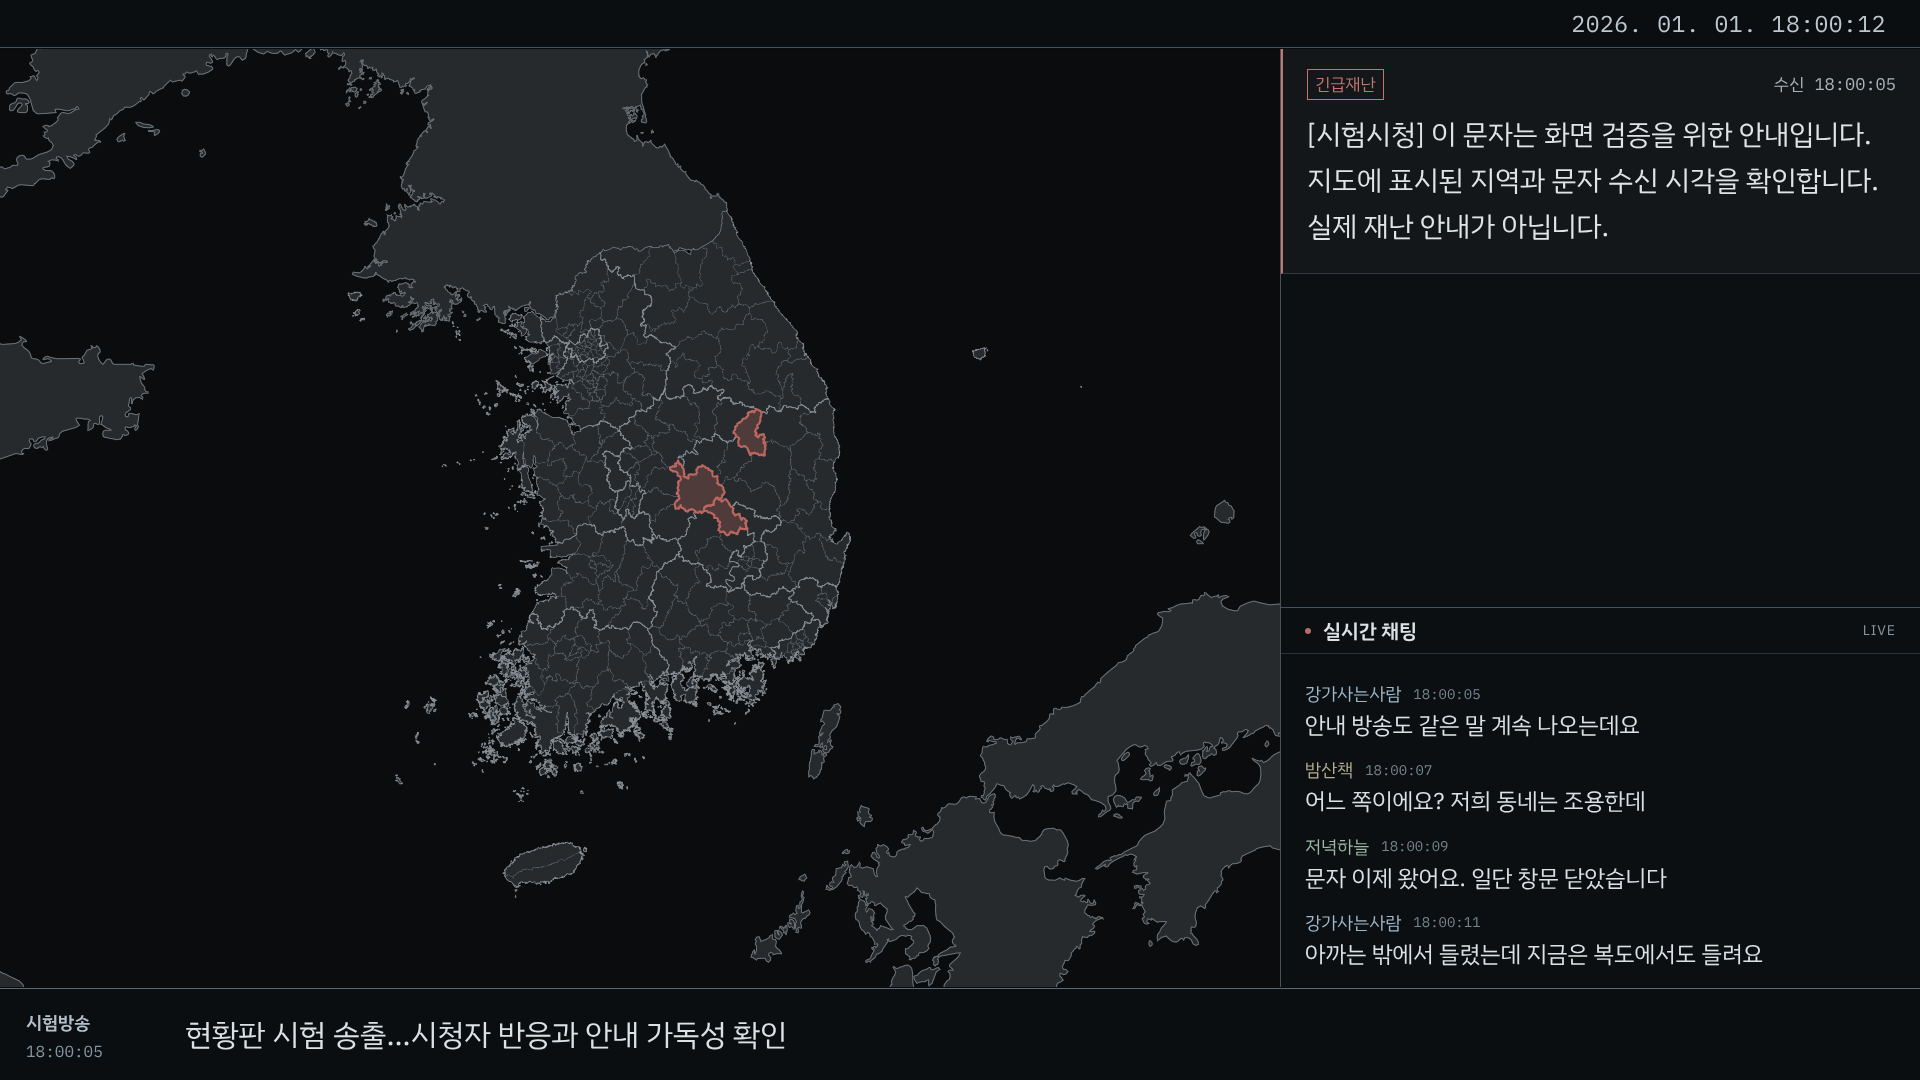
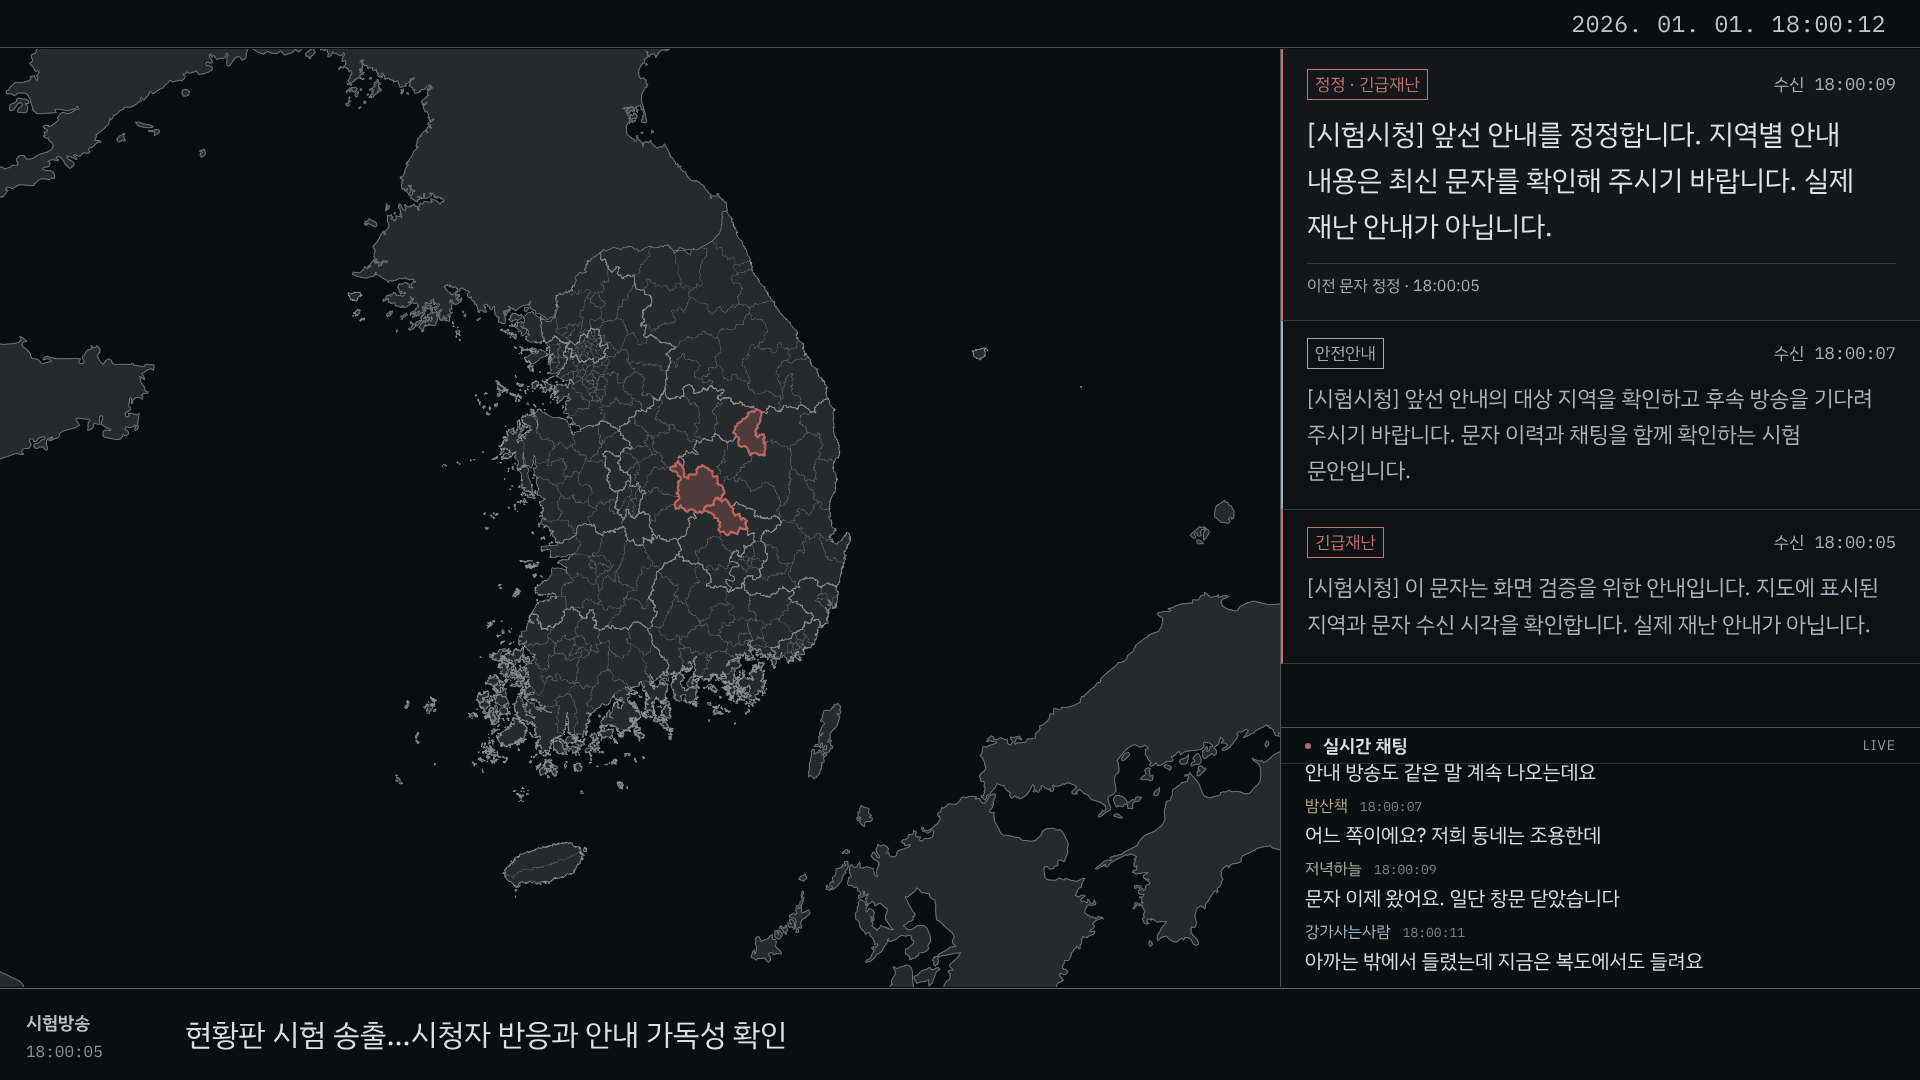
fix: reserve more panel space for disaster alerts

diff --git a/src/video/Chat.tsx b/src/video/Chat.tsx
@@ -4,7 +4,7 @@ import { clock, stateAt } from '../timeline.js';
 import { numberFont } from './fonts.js';
 import { changeProgress } from './transitions.js';
 
-export const chatHeight = 380;
+export const chatHeight = 260;
 
 export function ChatPanel({
   timeline,
@@ -21,6 +21,7 @@ export function ChatPanel({
       aria-label={chat.panel.title}
       style={{
         height: chatHeight,
+        boxSizing: 'border-box',
         flexShrink: 0,
         display: 'flex',
         flexDirection: 'column',
@@ -32,7 +33,7 @@ export function ChatPanel({
     >
       <div
         style={{
-          height: 46,
+          height: 36,
           flexShrink: 0,
           display: 'flex',
           alignItems: 'center',
@@ -42,7 +43,7 @@ export function ChatPanel({
         }}
       >
         <span style={{ width: 6, height: 6, borderRadius: '50%', background: '#b46e68' }} />
-        <span style={{ fontSize: chat.panel.title.length > 20 ? 16 : 20, fontWeight: 600 }}>
+        <span style={{ fontSize: chat.panel.title.length > 20 ? 16 : 18, fontWeight: 600 }}>
           {chat.panel.title}
         </span>
         <span style={{ marginLeft: 'auto', fontSize: 14, color: '#89969e', letterSpacing: 1 }}>
@@ -51,11 +52,11 @@ export function ChatPanel({
       </div>
       <div style={{ position: 'relative', flex: 1, minHeight: 0, overflow: 'hidden' }}>
         {chat.messages.length === 0 && (
-          <div style={{ padding: '24px', color: '#89969e', fontSize: 20 }}>
+          <div style={{ padding: '16px 24px', color: '#89969e', fontSize: 18 }}>
             아직 채팅이 없습니다.
           </div>
         )}
-        <div style={{ position: 'absolute', bottom: 16, left: 24, right: 24 }}>
+        <div style={{ position: 'absolute', bottom: 12, left: 24, right: 24 }}>
           {/* Only the recent tail can fit; absolute bottom alignment scrolls without DOM state. */}
           {chat.messages.slice(-12).map((message) => {
             const arrival = changeProgress(frame, message.start, 18);
@@ -64,20 +65,20 @@ export function ChatPanel({
                 <div style={{ minHeight: 0, overflow: 'hidden' }}>
                   <article
                     style={{
-                      paddingTop: 14,
+                      paddingTop: 8,
                       opacity: arrival,
                       transform: `translateY(${8 * (1 - arrival)}px)`,
                     }}
                   >
                     <div style={{ display: 'flex', alignItems: 'center', gap: 12, marginBottom: 3 }}>
-                      <span style={{ fontSize: 18, color: message.color, overflowWrap: 'anywhere' }}>
+                      <span style={{ fontSize: 16, color: message.color, overflowWrap: 'anywhere' }}>
                         {message.author}
                       </span>
-                      <time style={{ fontSize: 14, color: '#78868f', fontFamily: numberFont }}>
+                      <time style={{ fontSize: 13, color: '#78868f', fontFamily: numberFont }}>
                         {clock(stateAt(timeline, message.start).epoch, timeline.scenario.timezone)}
                       </time>
                     </div>
-                    <div style={{ fontSize: 23, lineHeight: 1.4, overflowWrap: 'anywhere' }}>
+                    <div style={{ fontSize: 20, lineHeight: 1.4, overflowWrap: 'anywhere' }}>
                       {message.text}
                     </div>
                   </article>

diff --git a/docs/history/2026-11-15-streaming-chat.md b/docs/history/2026-11-15-streaming-chat.md
@@ -2,7 +2,7 @@
 
 ## 요청과 판단
 
-현황판을 유튜브 같은 플랫폼에서 스트리밍 중이라는 설정에 맞춰 사람들의 반응을 보여주는 채팅을 추가했다. 지도 위에 대화를 겹치면 지역과 안내를 읽기 어려워 오른쪽 문자 패널 아래에 별도 공간을 배정했다. 기존 작품에 강제하지 않고 선택한 구간에만 켠다. 플랫폼 로고나 실제 서비스 연결은 필요하지 않으므로 작성된 대화를 결정적으로 재생한다.
+현황판을 유튜브 같은 플랫폼에서 스트리밍 중이라는 설정에 맞춰 사람들의 반응을 보여주는 채팅을 추가했다. 지도 위에 대화를 겹치면 지역과 안내를 읽기 어려워 오른쪽 문자 패널 아래 260px을 배정하고 약 72% 높이는 문자 이력에 남긴다. 작은 채팅 제목·본문과 좁은 메시지 간격으로 문자보다 낮은 정보 위계를 유지한다. 기존 작품에 강제하지 않고 선택한 구간에만 켠다. 플랫폼 로고나 실제 서비스 연결은 필요하지 않으므로 작성된 대화를 결정적으로 재생한다.
 
 ## 구현
 
@@ -18,7 +18,7 @@ F7 → TECH의 스트리밍 채팅 → PLAN의 P8로 추적한다. 정확한 필
 - `npm test`: 57개 통과. 채팅의 선택성·패널 구간·동시 메시지 순서·컷 이월·시계 전환 정지·역방향 탐색·전체 대화 보존·참조/구간 오류·중첩 거부·입력 길이와 HTML 이스케이프를 포함한다.
 - `npm run typecheck`, `npm run build`, `git diff --check` 통과.
 - `scripts/render-fixtures.mjs /tmp/dbs-chat-fixtures`로 실제 작품이 아닌 기술 검증 입력을 저장소 밖에 생성했다. 기존 검증 입력은 유지하고 `chat.json`을 추가했다.
-- Linux/Chrome Headless Shell/`swangle`에서 720번 프레임을 PNG로 출력해 지도·문자·채팅·뉴스를 함께 확인했다. [확인 화면](../screenshots/chat.png)을 보존했다. 960번 프레임에서는 최대 160자 본문 전체가 최신 항목으로 읽히는 것을 확인했다.
+- Linux/Chrome Headless Shell/`swangle`에서 720번 프레임을 PNG로 출력해 지도·문자·채팅·뉴스를 함께 확인했다. [확인 화면](../screenshots/chat.png)은 260px 채팅과 문자 3건이 함께 보이는 배치다. 960번 프레임에서는 최대 160자 본문 전체가 최신 항목으로 읽히는 것을 확인했다. 배치 조정 후 채팅·문자 이력 테스트와 빌드도 통과했다.
 - 654~689번의 36프레임 MP4와 등장 중간 프레임을 확인했다. H.264, 1920×1080, 60fps, AAC 트랙을 `ffprobe`로 확인했다. 새 메시지가 나타나며 이전 대화를 위로 밀어내고 지도·문자·뉴스와 겹치지 않았다. 임시 출력은 `/tmp/dbs-chat-fixtures`에 두었다.
 
 ## 배포 상태

diff --git a/docs/TECH.md b/docs/TECH.md
@@ -41,7 +41,7 @@ MapLibre GL JS를 사용한다. 현재 필요한 면·선·지점·카메라 표
 
 ### 스트리밍 채팅
 
-`chat` 구간 이벤트가 있을 때 오른쪽 문자 영역 아래 380px을 채팅에 배정한다. 지도·뉴스·시계 크기는 유지하며 방송 안내는 채팅까지 덮는다. `chat-message`는 패널 ID를 참조하는 단발 이벤트다. 컴파일 시 참조 타입·활성 구간·패널 중첩을 검사하고, `stateAt`의 `chat`은 콘텐츠 프레임까지 수신한 해당 패널의 대화만 시간순으로 반환한다. 시계 전환 중에는 다른 정보와 함께 멈춘다.
+`chat` 구간 이벤트가 있을 때 오른쪽 문자 영역 아래 260px을 채팅에 배정하고 나머지 약 72% 높이는 문자 이력에 사용한다. 채팅은 작은 제목·본문과 좁은 메시지 간격으로 보조 정보의 위계를 유지한다. 지도·뉴스·시계 크기는 유지하며 방송 안내는 채팅까지 덮는다. `chat-message`는 패널 ID를 참조하는 단발 이벤트다. 컴파일 시 참조 타입·활성 구간·패널 중첩을 검사하고, `stateAt`의 `chat`은 콘텐츠 프레임까지 수신한 해당 패널의 대화만 시간순으로 반환한다. 시계 전환 중에는 다른 정보와 함께 멈춘다.
 
 `src/video/Chat.tsx`는 최근 메시지를 아래에 정렬하고 새 메시지 높이를 프레임 기반 CSS grid로 펼쳐 과거 대화를 위로 밀어낸다. DOM 측정·스크롤 상태·타이머·원격 서비스에 의존하지 않는다. 화면 밖 대화는 위에서 가리며 렌더할 DOM은 최근 12개로 제한한다. `inspect`에는 전체 수신 대화를 보존한다. 닉네임과 본문은 길이·단일 행 입력을 검증하고 화면에서는 본문을 줄바꿈해 표시한다. 기본 무음이며 별도 플랫폼 로고·입력창·가공한 시청자 수는 표시하지 않는다. 관련 요구: F1, F2, F5, F7, N1, N2.
 
